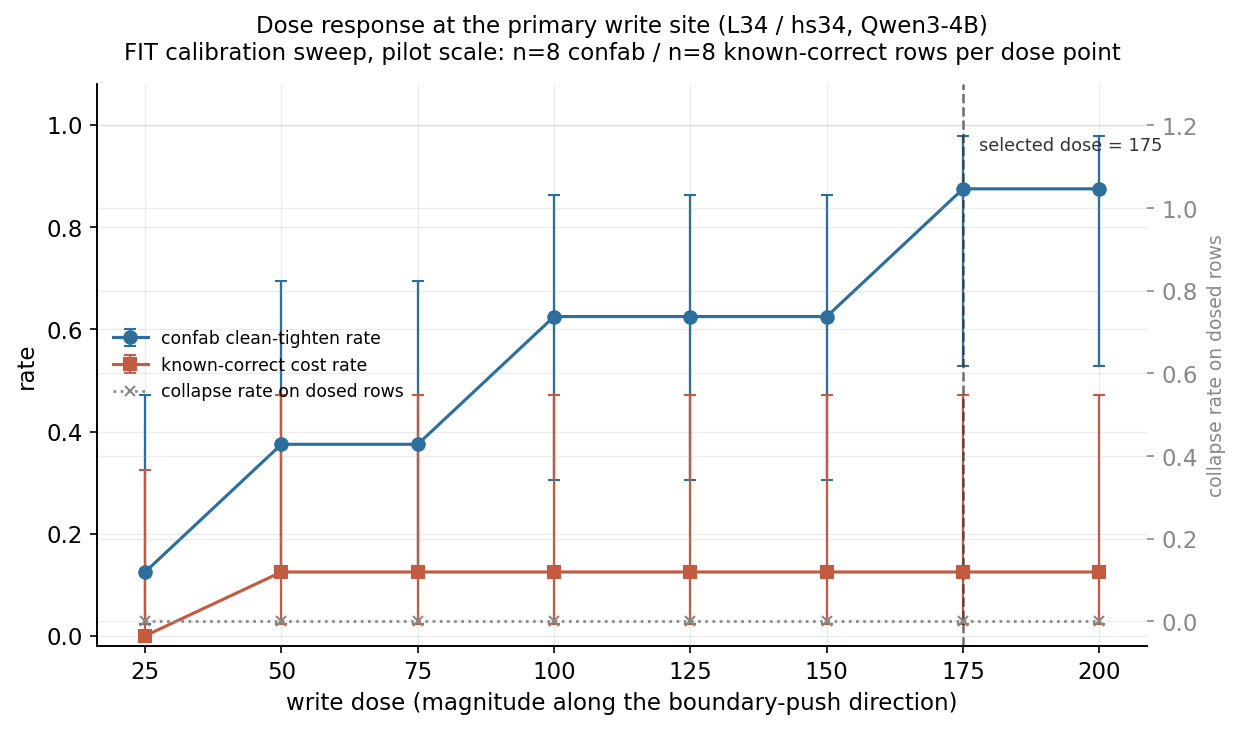
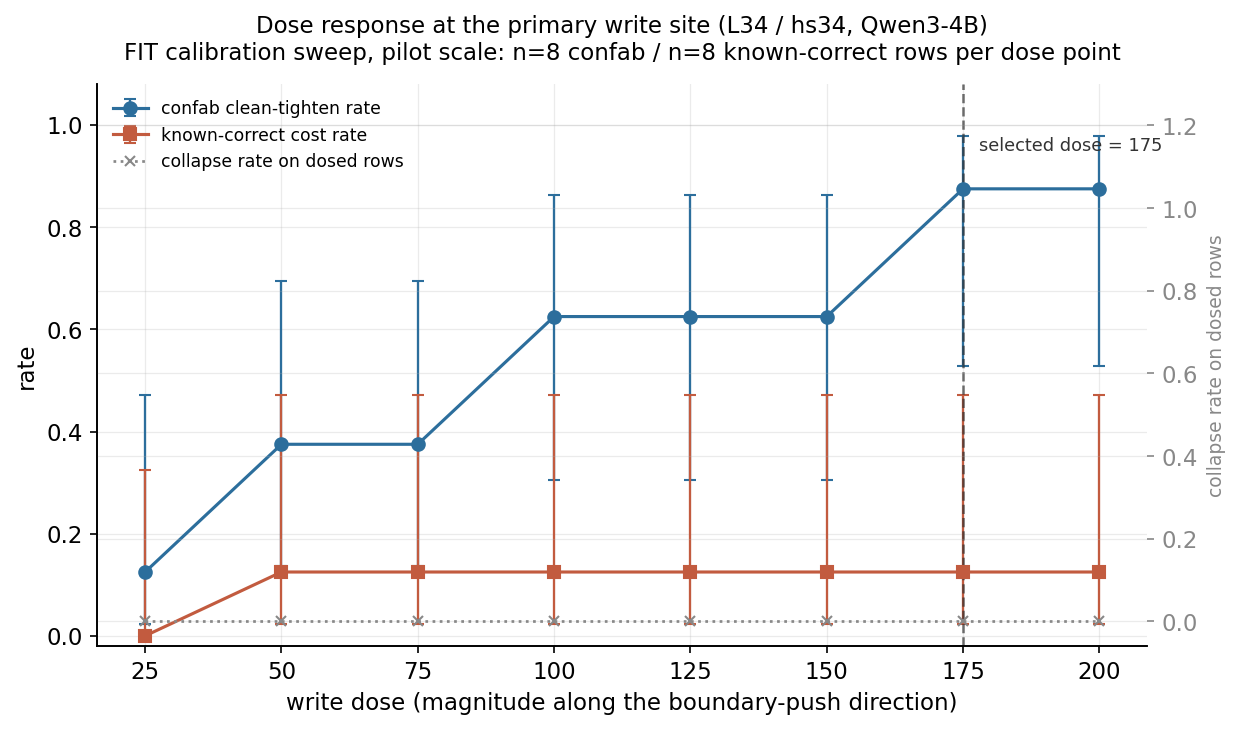
Paper 5: move Figure 4 legend clear of the data; remove em dashes from prose
The dose-response legend sat at center left, on top of the rising confab
curve; it now sits in the empty upper-left corner (only fig-p5-04
byte-changed on regeneration). Also replaces the five prose em dashes in
the Llama passage and Discussion with VOICE-conformant punctuation; the
remaining em dash is inside a verbatim format-string quote and is kept.

Claude-Session: https://claude.ai/code/session_012M6wLjiA3PHuTRN3V72TWD

Changed region(s): [[0.0919, 0.1205, 0.3371, 0.2411], [0.0919, 0.4521, 0.3371, 0.5425]]

diff --git a/papers/paper-5-actuation/scripts/build_figures.py b/papers/paper-5-actuation/scripts/build_figures.py
@@ -283,7 +283,7 @@ def fig4_dose_response():
     ax.set_xticks(doses)
     lines1, labels1 = ax.get_legend_handles_labels()
     lines2, labels2 = axT.get_legend_handles_labels()
-    ax.legend(lines1 + lines2, labels1 + labels2, frameon=False, fontsize=8.3, loc="center left")
+    ax.legend(lines1 + lines2, labels1 + labels2, frameon=False, fontsize=8.3, loc="upper left")
     ax.set_title(f"Dose response at the primary write site (L34 / hs34, Qwen3-4B)\n"
                  f"FIT calibration sweep, pilot scale: n={n_confab} confab / n={n_known} known-correct rows per dose point",
                  fontsize=11, pad=12)

diff --git a/papers/paper-5-actuation/manuscript.md b/papers/paper-5-actuation/manuscript.md
@@ -1169,7 +1169,7 @@ adversarial audit across six attack surfaces (Appendix A).
 
 #### Llama
 
-Llama carries a direction-specific verified write — at its own
+Llama carries a direction-specific verified write, at its own
 profile-selected mid-band site, not at the read-selected sites the atlas
 ladder dosed. At hs17, relative depth 0.607, the one Llama site that
 clears a held-out abstention floor (Section 6.5), the gated write reaches
@@ -1825,14 +1825,14 @@ direction-specificity test fails on two of the four families here, and
 matched-magnitude random directions move abstention in every family measured.
 The claims are scoped to what the controls establish: the sign-opposition
 argument belongs to the mid-band point where the null is measured as a
-distribution and is no part of the recipe — at the raw-base late site the
+distribution and is no part of the recipe: at the raw-base late site the
 random null has no consistent sign, and the specificity claim there rests on
-the 4.83 distributional ratio alone — and the recipe is not Qwen-only, since
+the 4.83 distributional ratio alone. And the recipe is not Qwen-only, since
 Llama's own mid-band site verifies at 9.34 over fifteen seeds. What remains
 open is Mistral: if an operating point with a small or stable nonspecific
 response still fails the ratio test, and gemma's seam ablation never yields a
 clean site, the recipe reading narrows to families whose site search finds a
-specific write — two of four so far. That is the test the next study should
+specific write, two of four so far. That is the test the next study should
 try to fail.
 
 ---
@@ -2064,7 +2064,7 @@ gap between prediction and result without consulting the text.
   per-family measured null distribution the census supplies at fifteen seeds
   (Section 4.8), for example via a percentile-based tolerance or a
   sign-opposition criterion, not a flat symmetric tolerance and not a single
-  seed — and not a sign taken from one draw: the raw-base late-site null has
+  seed, and not a sign taken from one draw: the raw-base late-site null has
   no consistent sign while its individual draws land signed. The
   per-family wide-instrument baselines (qwen 0.104, Llama 0.164,
   Mistral 0.280) still anchor the recruitment-versus-suppression axis.
